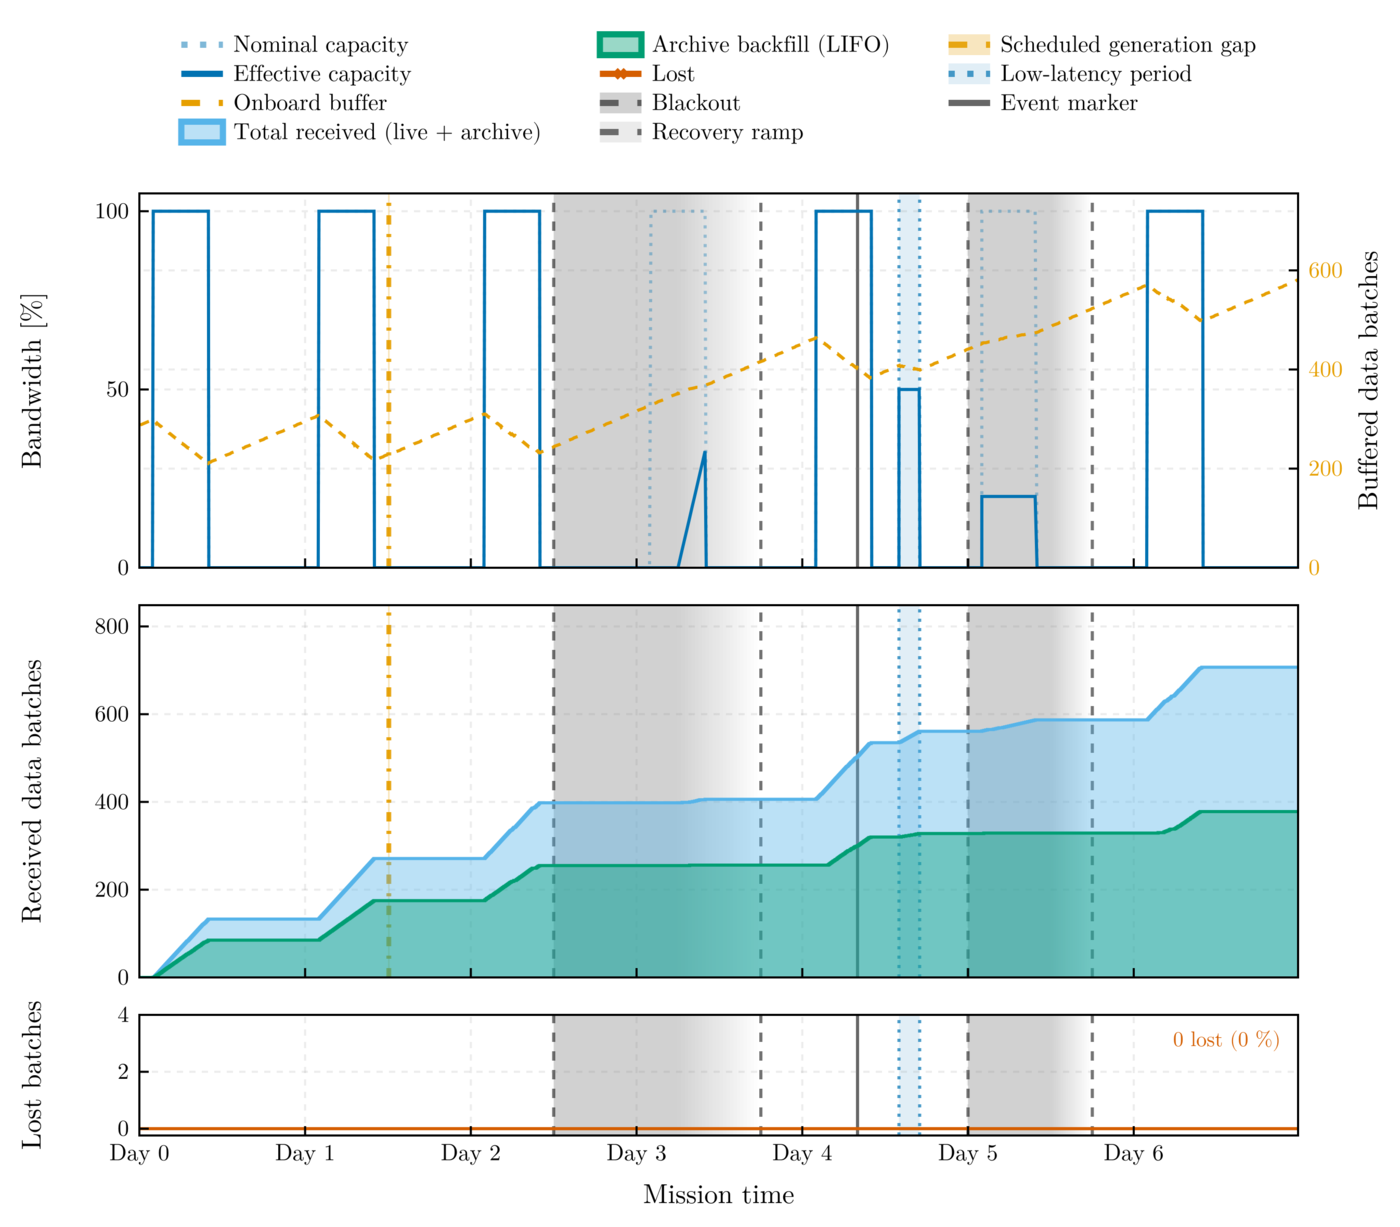
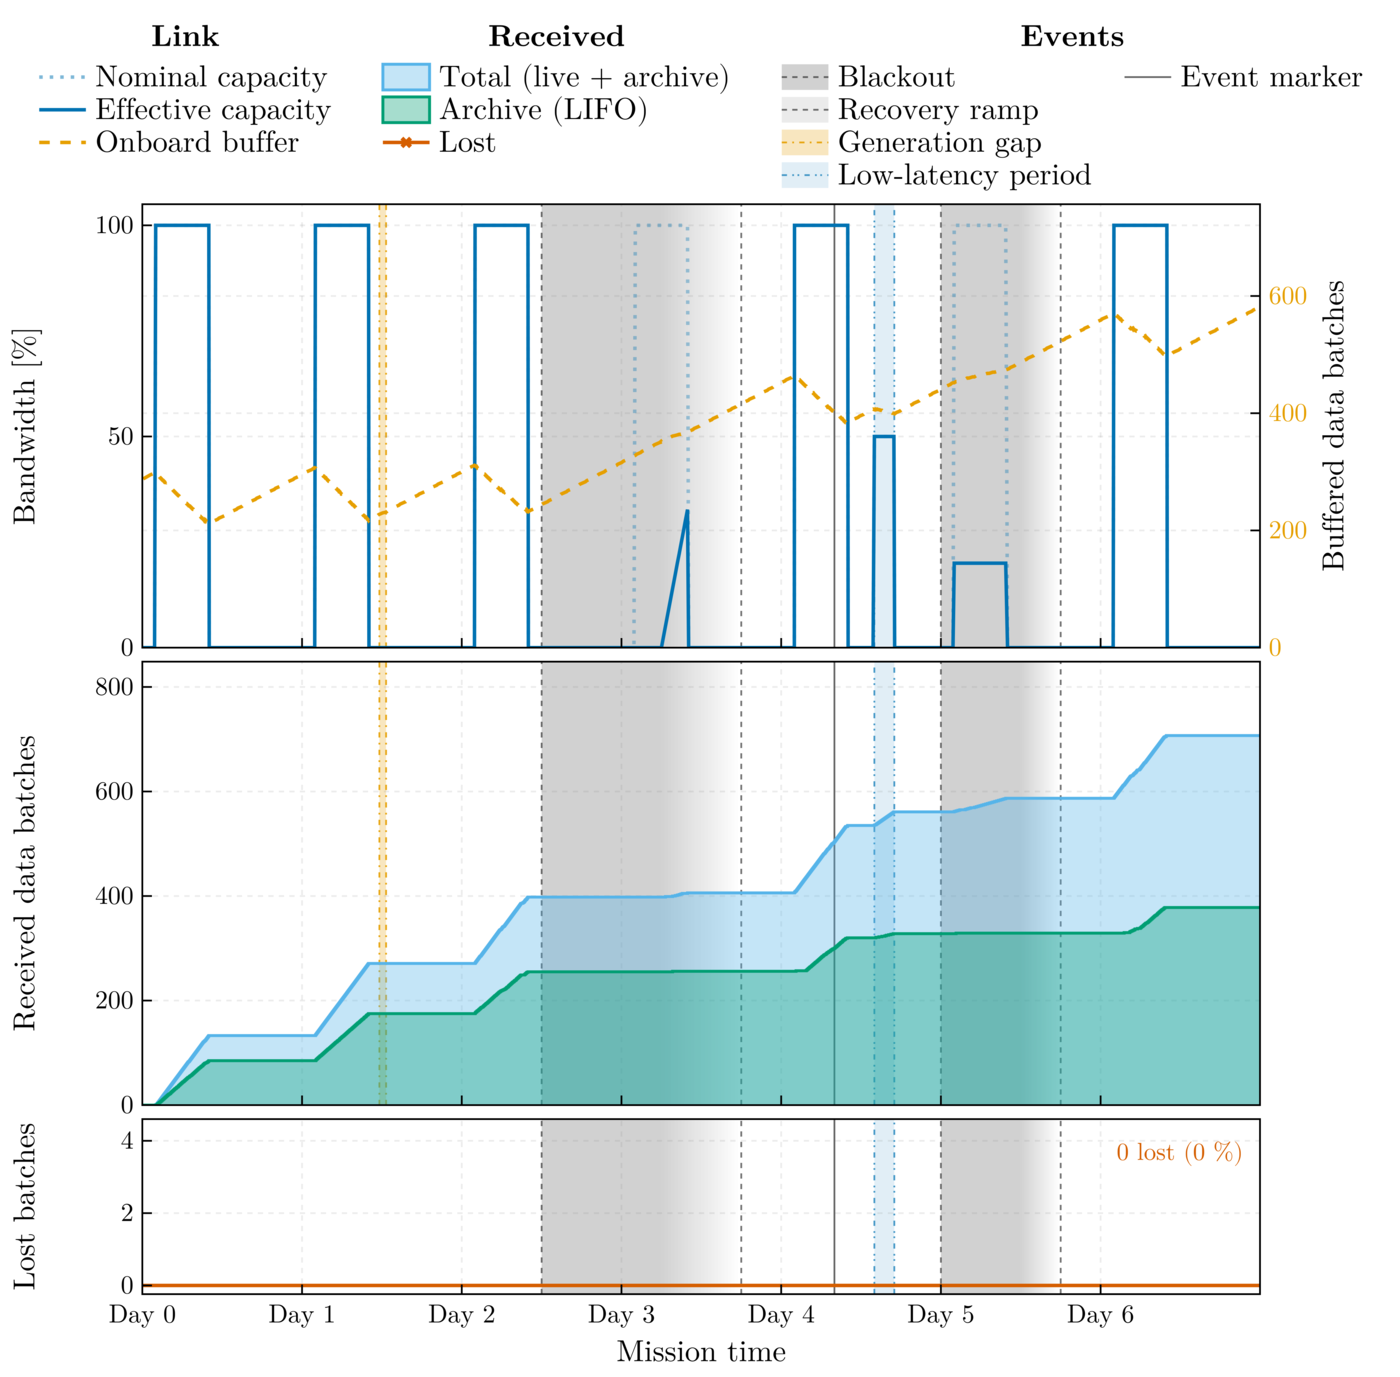
docs: re-render the manual figures and correct the equation citations
The mission summary and the batch-routing animation are rendered with the
plotting code of 2.0.1 from a new run of stress_8h_bursty.toml on this
release; PROVENANCE.toml records the run and the rendering commit, and the
README and manual captions state that run's totals. The docstrings and the
physics page cite Robson, Cornish & Liu (2019) by the paper's equation
numbers (Eq. 13 for the instrument term, Eqs. 10 and 11 for P_OMS and
P_acc). Remaining wording: backward and afterward, [CONFIG] errors named by
their key, unit brackets, one intensifier removed.

diff --git a/docs/src/physics.md b/docs/src/physics.md
@@ -3,11 +3,11 @@
 `DeepSpaceTelemetry` models the telemetry environment of a deep-space science mission: a duty-cycled ground-station contact, a physical downlink with stochastic loss and scheduled disruptions, and the routing doctrine that decides which data reach the ground first. The telemetry, channel, and queuing layers are mission-agnostic; the shipped scenarios and the synthetic payload model the LISA mission.
 
 ## Virtual Instrument (Noise Generation)
-In synthetic mode, the simulator generates amplitude-calibrated LISA strain from the sky- and polarization-averaged sensitivity of Robson, Cornish & Liu (2019), `S(f) = S_n(f) + S_c(f)`. The instrument term (their Eq. 1) is
+In synthetic mode, the simulator generates amplitude-calibrated LISA strain from the sky- and polarization-averaged sensitivity of Robson, Cornish & Liu (2019), `S(f) = S_n(f) + S_c(f)`. The instrument term (their Eq. 13) is
 
 `S_n(f) = 10 / (3 L²) · [P_OMS(f) + 2 (1 + cos²(f/f*)) P_acc(f) / (2π f)⁴] · [1 + 0.6 (f/f*)²]`,
 
-with the optical-metrology noise `P_OMS = (1.5 × 10⁻¹¹ m)² (1 + (2 mHz / f)⁴) Hz⁻¹`, the test-mass acceleration noise `P_acc = (3 × 10⁻¹⁵ m s⁻²)² (1 + (0.4 mHz / f)²) (1 + (f / 8 mHz)⁴) Hz⁻¹`, the arm length `L = 2.5 × 10⁶ km`, and the transfer frequency `f* = c / (2π L) ≈ 19.1 mHz`. The unresolved galactic-binary confusion foreground (their Eq. 14) is
+with the optical-metrology noise (their Eq. 10) `P_OMS = (1.5 × 10⁻¹¹ m)² (1 + (2 mHz / f)⁴) Hz⁻¹`, the test-mass acceleration noise (their Eq. 11) `P_acc = (3 × 10⁻¹⁵ m s⁻²)² (1 + (0.4 mHz / f)²) (1 + (f / 8 mHz)⁴) Hz⁻¹`, the arm length `L = 2.5 × 10⁶ km`, and the transfer frequency `f* = c / (2π L) ≈ 19.1 mHz`. The unresolved galactic-binary confusion foreground (their Eq. 14) is
 
 `S_c(f) = A f^(−7/3) exp(−f^α + β f sin(κ f)) [1 + tanh(γ (f_k − f))]`, `A = 9 × 10⁻⁴⁵ Hz⁻¹`,
 
@@ -48,7 +48,7 @@ Each batch transfer attempt on the downlink draws one loss realization from the 
 A lost transfer leaves the batch on the link. The loss is detected on the ground when the transfer completes, and the retransmission can be served no earlier than one round-trip light time later — `2 · range / c` from `telemetry.range_million_km` (≈ 333 s at 50 × 10⁶ km; `0` disables the delay) — while the other in-flight batches keep being served, as under a deferred negative-acknowledgment protocol; the link idles only when every in-flight batch is waiting for its round trip. After `max_retries` failures the batch moves to `lost/` — data preserved, mask state `4` — which frees its in-flight slot on the link. `on_loss = "drop"` is shorthand for a zero-retry budget.
 
 ## Link-Disruption Events
-`[[disruption.events]]` entries superimpose scheduled link-degrading events — solar flares, spacecraft safe-mode entries, ground-station outages — on the daily visibility schedule. During the blackout phase the link capacity is multiplied by `1 − severity`; afterwards it ramps linearly back to nominal over `recovery_hours`. Throughout blackout *and* recovery the stochastic loss probability is scaled by `loss_multiplier` (clamped to `[0,1]`), modeling the noisy, marginal link of a recovering channel. Overlapping events compose conservatively (minimum capacity, maximum loss multiplier).
+`[[disruption.events]]` entries superimpose scheduled link-degrading events — solar flares, spacecraft safe-mode entries, ground-station outages — on the daily visibility schedule. During the blackout phase the link capacity is multiplied by `1 − severity`; afterward it ramps linearly back to nominal over `recovery_hours`. Throughout blackout *and* recovery the stochastic loss probability is scaled by `loss_multiplier` (clamped to `[0,1]`), modeling the noisy, marginal link of a recovering channel. Overlapping events compose conservatively (minimum capacity, maximum loss multiplier).
 
 Because the emitter gates transmission on the *effective* link — geometric visibility × disruption factor — data generated during a blackout is stamped `ARCH_` and accumulates onboard exactly like blind-spot data; the post-event drain then follows the standard LIVE-FIFO/ARCH-LIFO mechanics with no special-case code.
 
@@ -61,7 +61,7 @@ The on-board recorder holds `storage.onboard_capacity_days` of production (defau
 Between contacts the spacecraft accumulates a backlog (in the shipped LISA scenario, 16 blind hours per day). When the link opens, the satellite routes data under a strict priority doctrine — a two-class priority queue whose classes are served FIFO and LIFO in the sense of Kleinrock (1975):
 
 1. **Near-real-time (live) data:** highest priority, sent first-in, first-out (FIFO) so the ground sees the newest observations with the smallest latency.
-2. **Archive backfill (LIFO):** the remaining bandwidth drains the backlog last-in, first-out — the newest archived data first. For a transient caught live (in the LISA case a massive black-hole binary merger), the archived data immediately preceding it are the most valuable, and LIFO delivery lets alert pipelines extend the waveform backwards from the live event without a gap.
+2. **Archive backfill (LIFO):** the remaining bandwidth drains the backlog last-in, first-out — the newest archived data first. For a transient caught live (in the LISA case a massive black-hole binary merger), the archived data immediately preceding it are the most valuable, and LIFO delivery lets alert pipelines extend the waveform backward from the live event without a gap.
 
 ![Batch-routing animation: one row per stage, sky blue for live batches and green for archive ones](assets/batch_routing.gif)
 
@@ -71,7 +71,7 @@ delivered on the ground — and the color the routing family: sky blue live
 (FIFO), green archive (LIFO), with the marker shape repeating the
 distinction. Live batches cross to the ground as they are generated, so the
 sky-blue runs mark the passes; between them the archive segment grows
-backwards in batch identifier, contiguous with the live tail, which is the
+backward in batch identifier, contiguous with the live tail, which is the
 LIFO backfill. Through the blackout the ground row stands still while the
 onboard block extends to the right. The status line carries the mission
 clock (`Day N` counts elapsed days, as on the summary axis, and the time is
@@ -79,7 +79,7 @@ the mission clock, as on the session figures), the link state, and the
 buffer counters of that frame.
 
 ## Alert-Latency Metrology
-The alert-latency metric measures the effect of the LIFO backfill from the event logs (`Metrology.alert_latency_table`). Every live batch that reached the ground defines an alert: the event instant `t_m` is the content end of that batch (the moment the transient's samples exist on board). For a look-back `δ`, the window `[t_m − δ, t_m)` together with the alert batch itself is complete on the ground once every batch overlapping it has arrived; the latency `L(δ)` is that completion instant minus `t_m`, so `L(δ ≤ D)` is the delivery delay of the live batch itself and `L(δ)` is non-decreasing. Under the realized doctrine the arrival instants are the recorded `ingested` events. The counterfactual first-in, first-out drain re-assigns the very same service completions — the sorted `ingested` instants, i.e. the same link, the same slots, the same losses — to the batches in content order, each completion going to the oldest batch already generated and still undelivered, with no live priority. The table reports the median and the interquartile band of `L(δ)` over all alerts on the grid `δ = 0, D, 2D, …` (`D` = batch content span) up to `post_processing.alert_lookback_hours`; alerts whose window reaches before the first batch, or contains a batch that never arrived, are excluded at that `δ`. Under LIFO the window fills backwards from the live stream, so `L(δ)` grows with `δ` at the backfill rate; under FIFO the newest batches of the window arrive last, so `L(δ)` sits near the time needed to drain the whole backlog generated before the event.
+The alert-latency metric measures the effect of the LIFO backfill from the event logs (`Metrology.alert_latency_table`). Every live batch that reached the ground defines an alert: the event instant `t_m` is the content end of that batch (the moment the transient's samples exist on board). For a look-back `δ`, the window `[t_m − δ, t_m)` together with the alert batch itself is complete on the ground once every batch overlapping it has arrived; the latency `L(δ)` is that completion instant minus `t_m`, so `L(δ ≤ D)` is the delivery delay of the live batch itself and `L(δ)` is non-decreasing. Under the realized doctrine the arrival instants are the recorded `ingested` events. The counterfactual first-in, first-out drain re-assigns the very same service completions — the sorted `ingested` instants, i.e. the same link, the same slots, the same losses — to the batches in content order, each completion going to the oldest batch already generated and still undelivered, with no live priority. The table reports the median and the interquartile band of `L(δ)` over all alerts on the grid `δ = 0, D, 2D, …` (`D` = batch content span) up to `post_processing.alert_lookback_hours`; alerts whose window reaches before the first batch, or contains a batch that never arrived, are excluded at that `δ`. Under LIFO the window fills backward from the live stream, so `L(δ)` grows with `δ` at the backfill rate; under FIFO the newest batches of the window arrive last, so `L(δ)` sits near the time needed to drain the whole backlog generated before the event.
 
 Event markers (`[[events.markers]]`) are the instants of interest a scenario declares — a transient, a glitch — and the alert latency is evaluated at each of them as well (`Metrology.marker_latency_table`): the alert batch is the one whose content span holds the marker, `t_m` is the marker instant itself, and every marker's `L(δ)` is written to `alert_latency_markers.csv` and drawn over the population bands. The end-to-end alert latency adds the ground processing budget `ground.processing_latency_hours` (default 1 h, the low-latency alert pipeline allocation), which the figure annotates; a marker may also trigger a low-latency period `low_latency_after_hours` after its instant (Contact Schedule above). The emitter stamps the labels of the markers held by a batch into its `metadata.json` and appends a `marker` row to `events_tx.csv` when that batch is finalized.
 

diff --git a/README.md b/README.md
@@ -33,9 +33,9 @@ on the physical link, a bursty Gilbert–Elliott channel, an 18 h solar-flare
 blackout followed by a 12 h recovery ramp on day 2.5, a 12 h partial
 ground-station outage on day 5, a scheduled generation gap on day 1.5, and
 an event marker on day 4 whose triggered low-latency period opens six hours
-later at half capacity. The onboard buffer doubles from 288 to 581 batches
+later at half capacity. The onboard buffer doubles from 288 to 582 batches
 across the week — the disruption debt the link never recovers — while 707
-batches reach the ground and retransmission recovers all 47 rejected
+batches reach the ground and retransmission recovers all 46 rejected
 transfers, leaving the lost-batch strip at zero. Every number here comes
 from the run recorded in
 [`docs/src/assets/PROVENANCE.toml`](docs/src/assets/PROVENANCE.toml).
@@ -214,7 +214,7 @@ julia -i scripts/activate.jl   # the entry points' environment (terminal UI, log
 
 Each leaves a REPL with that environment active; from an existing REPL,
 `include` the same file. The first instantiation of an environment resolves
-and precompiles and is therefore slow, afterwards it is a no-op.
+and precompiles and is therefore slow, afterward it is a no-op.
 
 ## Usage & Execution
 
@@ -402,7 +402,7 @@ freely — for example `[-1, "10:20", 45]`. The
 - **Data products** — append-only emitter and receiver event logs, from which
   post-processing replays the exact per-batch state history; the 0–4 mask
   timeline and point-wise 0/1 availability masks; the metrics profile; the
-  batch-state raster, which shows the LIFO backfill advancing backwards in
+  batch-state raster, which shows the LIFO backfill advancing backward in
   batch identifier; a Welch estimate of the delivered payload against the
   noise model it was drawn from; an HDF5 export of every product carrying the
   run's provenance as attributes; publication figures at a declared printed
@@ -437,7 +437,7 @@ file-system broker, coordinated only by the shared accelerated clock:
 The routing invariant mirrors the LISA operational concept: **live data is
 transmitted FIFO with absolute priority; residual bandwidth backfills the
 archive LIFO (newest first)**, so alert pipelines can extend a live event's
-waveform backwards in time without temporal gaps.
+waveform backward in time without temporal gaps.
 
 ![Batch-routing animation: one row per stage, sky blue for live batches and
 green for archive ones, with the mission clock and the buffer counters in
@@ -448,7 +448,7 @@ satellite, in flight on the link, delivered on the ground — and the color
 the routing family: sky blue live (FIFO), green archive (LIFO), the marker
 shape repeating the distinction. Live batches cross as they are generated,
 so the sky-blue runs mark the passes, and between them the archive segment
-grows backwards in batch identifier, contiguous with the live tail. Through
+grows backward in batch identifier, contiguous with the live tail. Through
 the blackout the ground row stands still while the onboard block extends to
 the right. Each frame states the mission clock, the link state, and the
 onboard and ground counts.

diff --git a/docs/src/usage.md b/docs/src/usage.md
@@ -5,7 +5,7 @@ Every mission parameter is set in a TOML file. Every key's **safe
 interval** is documented inline in `config.toml`; `validate_config` enforces
 them at startup — code-breaking values abort with a precise message, suspicious
 ones warn. Type mismatches (quoted numbers, float counts) and malformed TOML
-abort with clean `[CONFIG]` errors; a corrupt run snapshot falls back to the
+abort with a `[CONFIG]` message rather than a stack trace; a corrupt run snapshot falls back to the
 project config with a warning, so post-processing of an old run is never aborted by it.
 
 Storage is governed up front: `check_storage_limits` prints a per-artifact
@@ -214,7 +214,7 @@ julia scripts/postprocessing/apply_telemetry_mask.jl <RUN_ID> <total_points> <ev
 
 External collaborators without this repository can use the dependency-light copy `scripts/postprocessing/standalone_mask_expander.jl`, which needs only `CSV` and `DataFrames`.
 
-With `hdf5_export = true` in `[post_processing]` every product — event logs, metrics, masks, metrology tables, markers — is additionally written to `products.h5` with the run's provenance as attributes (layout in the Analysis Interfaces page); the same file can be produced afterwards for any run:
+With `hdf5_export = true` in `[post_processing]` every product — event logs, metrics, masks, metrology tables, markers — is additionally written to `products.h5` with the run's provenance as attributes (layout in the Analysis Interfaces page); the same file can be produced afterward for any run:
 ```bash
 julia scripts/postprocessing/export_hdf5.jl [RUN_ID]
 ```
@@ -240,7 +240,7 @@ meet; where the short forms are not enough, the figure gains height until
 they clear (`Receiver.summary_figure_height`). In-axis annotations move to
 whichever end of the axis the disruption rules and event markers leave free,
 and the delivery-delay requirement rule stops above its annotation block
-instead of crossing it. The same export runs afterwards for any run with the
+instead of crossing it. The same export runs afterward for any run with the
 settings of its snapshot:
 ```bash
 julia scripts/postprocessing/export_publication_figures.jl [RUN_ID]
@@ -257,7 +257,7 @@ payload_spectrum = true     # the delivered payload against the noise model
 per batch, one row per recorded event, and one color per state: the boundary
 between the future wash and the onboard color is generation, each pass turns a
 block of columns to the ground color, and within a block the higher batch
-identifiers turn first — the LIFO backfill, advancing backwards in batch
+identifiers turn first — the LIFO backfill, advancing backward in batch
 identifier. What remains in the onboard color at the top of the figure is the
 backlog the run never cleared. It needs `generate_mask_timeline`, and is
 skipped without it.

diff --git a/docs/src/index.md b/docs/src/index.md
@@ -11,8 +11,8 @@ One week of `scenarios/stress_8h_bursty.toml`: 8 h daily passes on the
 physical link, a bursty Gilbert–Elliott channel, an 18 h solar-flare blackout
 with a 12 h recovery ramp on day 2.5, a partial ground-station outage on day
 5, and a scheduled generation gap on day 1.5. The onboard buffer doubles from
-288 to 583 batches across the week while 706 batches reach the ground and
-retransmission recovers all 42 rejected transfers.
+288 to 582 batches across the week while 707 batches reach the ground and
+retransmission recovers all 46 rejected transfers.
 
 ## Installation
 
@@ -31,7 +31,7 @@ Pkg.add(url = "https://github.com/PaulGoG/DeepSpaceTelemetry.jl", rev = "v1.2.1"
 * **Link capacity**: either the batches-per-hour abstraction or the physical rate pair `downlink_kbps` / `onboard_data_rate_kbps`, with the catch-up ratio and the capacity of one nominal pass against the daily production reported at start-up.
 * **Pass profiles**: `sine`, `sigmoid`, `gaussian`, or `flat` capacity over the pass; the validator states the profile mean when a shaped profile meets a physical rate.
 * **Contact schedule**: seasonal pass-duration modulation, per-date exceptions, explicit pass lists (TOML or CSV), and low-latency periods at a station-availability capacity fraction.
-* **FIFO/LIFO routing**: live transmission first (FIFO), then the archive backfill in strict LIFO order, so alert pipelines extend a live event's waveform backwards in time without gaps.
+* **FIFO/LIFO routing**: live transmission first (FIFO), then the archive backfill in strict LIFO order, so alert pipelines extend a live event's waveform backward in time without gaps.
 * **Stochastic packet loss**: per-transfer loss from a memoryless Bernoulli or a bursty Gilbert–Elliott channel, a retransmit/drop policy, and retransmissions deferred by the round-trip light time of the configured range; retry-exhausted batches land in `lost/` (data preserved, mask state `4`).
 * **Disruption events**: scheduled link disruptions (full or partial blackout, linear recovery ramp, elevated loss) and scheduled generation gaps such as antenna repointing; the on-board recorder ceiling discards data at capacity and records the loss as a gap.
 * **Event markers**: declared instants stamped into the batch metadata and the transmit log; the alert-latency and delivery-delay metrics are evaluated at each marker, with an optional triggered low-latency period.

diff --git a/docs/src/interfaces.md b/docs/src/interfaces.md
@@ -13,7 +13,7 @@ of analysis instances may operate concurrently on a single telemetry run.
    needs to own is copied out to consumer-managed storage.
 2. **Concurrent consumers are safe by construction.** All consumer-facing
    files are either append-only (event logs, metrics) or appear atomically
-   and are immutable afterwards (batch directories). No locking protocol
+   and are immutable afterward (batch directories). No locking protocol
    exists or is needed — provided rule 1 is respected.
 3. **The contract is invariant under `speed_up`.** A consumer developed
    against an accelerated run (`speed_up = 3600`) works unchanged against a
@@ -64,7 +64,7 @@ files carry no timestamps; sample `k` of a batch lies at
 `content_epoch + (k − 1) / sample_rate`. A batch whose payload holds an
 event marker carries the marker labels under the optional `markers` key.
 Batches are delivered by an atomic same-filesystem `mv`: a directory visible
-under `ground/` is complete, and it is never modified afterwards except by
+under `ground/` is complete, and it is never modified afterward except by
 the retention custodian (below).
 
 ## Availability Window & Lifecycle Sentinels
@@ -177,7 +177,7 @@ The recommended loop for an online sliding-window pipeline:
 
 Consumers must tolerate out-of-temporal-order arrival: live data streams FIFO
 with priority, while the archived backlog backfills LIFO (newest first), so
-coverage grows *backwards in time* from each live front — contiguously behind
+coverage grows *backward in time* from each live front — contiguously behind
 it, session by session, with a moving frontier at each blind-spot boundary.
 This is the intended behavior for sliding-window alert pipelines: the data
 most tightly coupled to a live event arrives first.
@@ -206,7 +206,7 @@ Alternatively, consume the prepared products:
 ## HDF5 Product Export
 
 With `post_processing.hdf5_export = true` (or
-`scripts/postprocessing/export_hdf5.jl [RUN_ID]` afterwards) the run's
+`scripts/postprocessing/export_hdf5.jl [RUN_ID]` afterward) the run's
 products are written into `products.h5`, one self-describing file for
 pipelines that read HDF5 rather than a directory of CSV files. The CSV
 products stay in place and remain the primary interface; the file is a

diff --git a/CHANGELOG.md b/CHANGELOG.md
@@ -13,6 +13,16 @@ Notable changes to DeepSpaceTelemetry. The format follows
   American spelling throughout, commands without `--project=.` (the scripts
   activate their environments themselves), and author metadata with the
   name only. Code and behavior are those of 1.2.0.
+- The manual and README figures are re-rendered with the plotting code of
+  2.0.1 from a new run of `scenarios/stress_8h_bursty.toml` on this release
+  (`docs/src/assets/PROVENANCE.toml`); the captions state that run's totals.
+
+### Fixed
+- The docstrings and the physics page cite Robson, Cornish & Liu (2019) by
+  the equation numbers of the paper: Eq. 13 for the instrument term with the
+  `2 (1 + cos²(f/f*))` factor the code implements, Eqs. 10 and 11 for
+  `P_OMS` and `P_acc`. Eq. 1, cited before, is the paper's combined
+  approximation with `4 P_acc`.
 
 ## [1.2.0] - 2026-09-13
 
